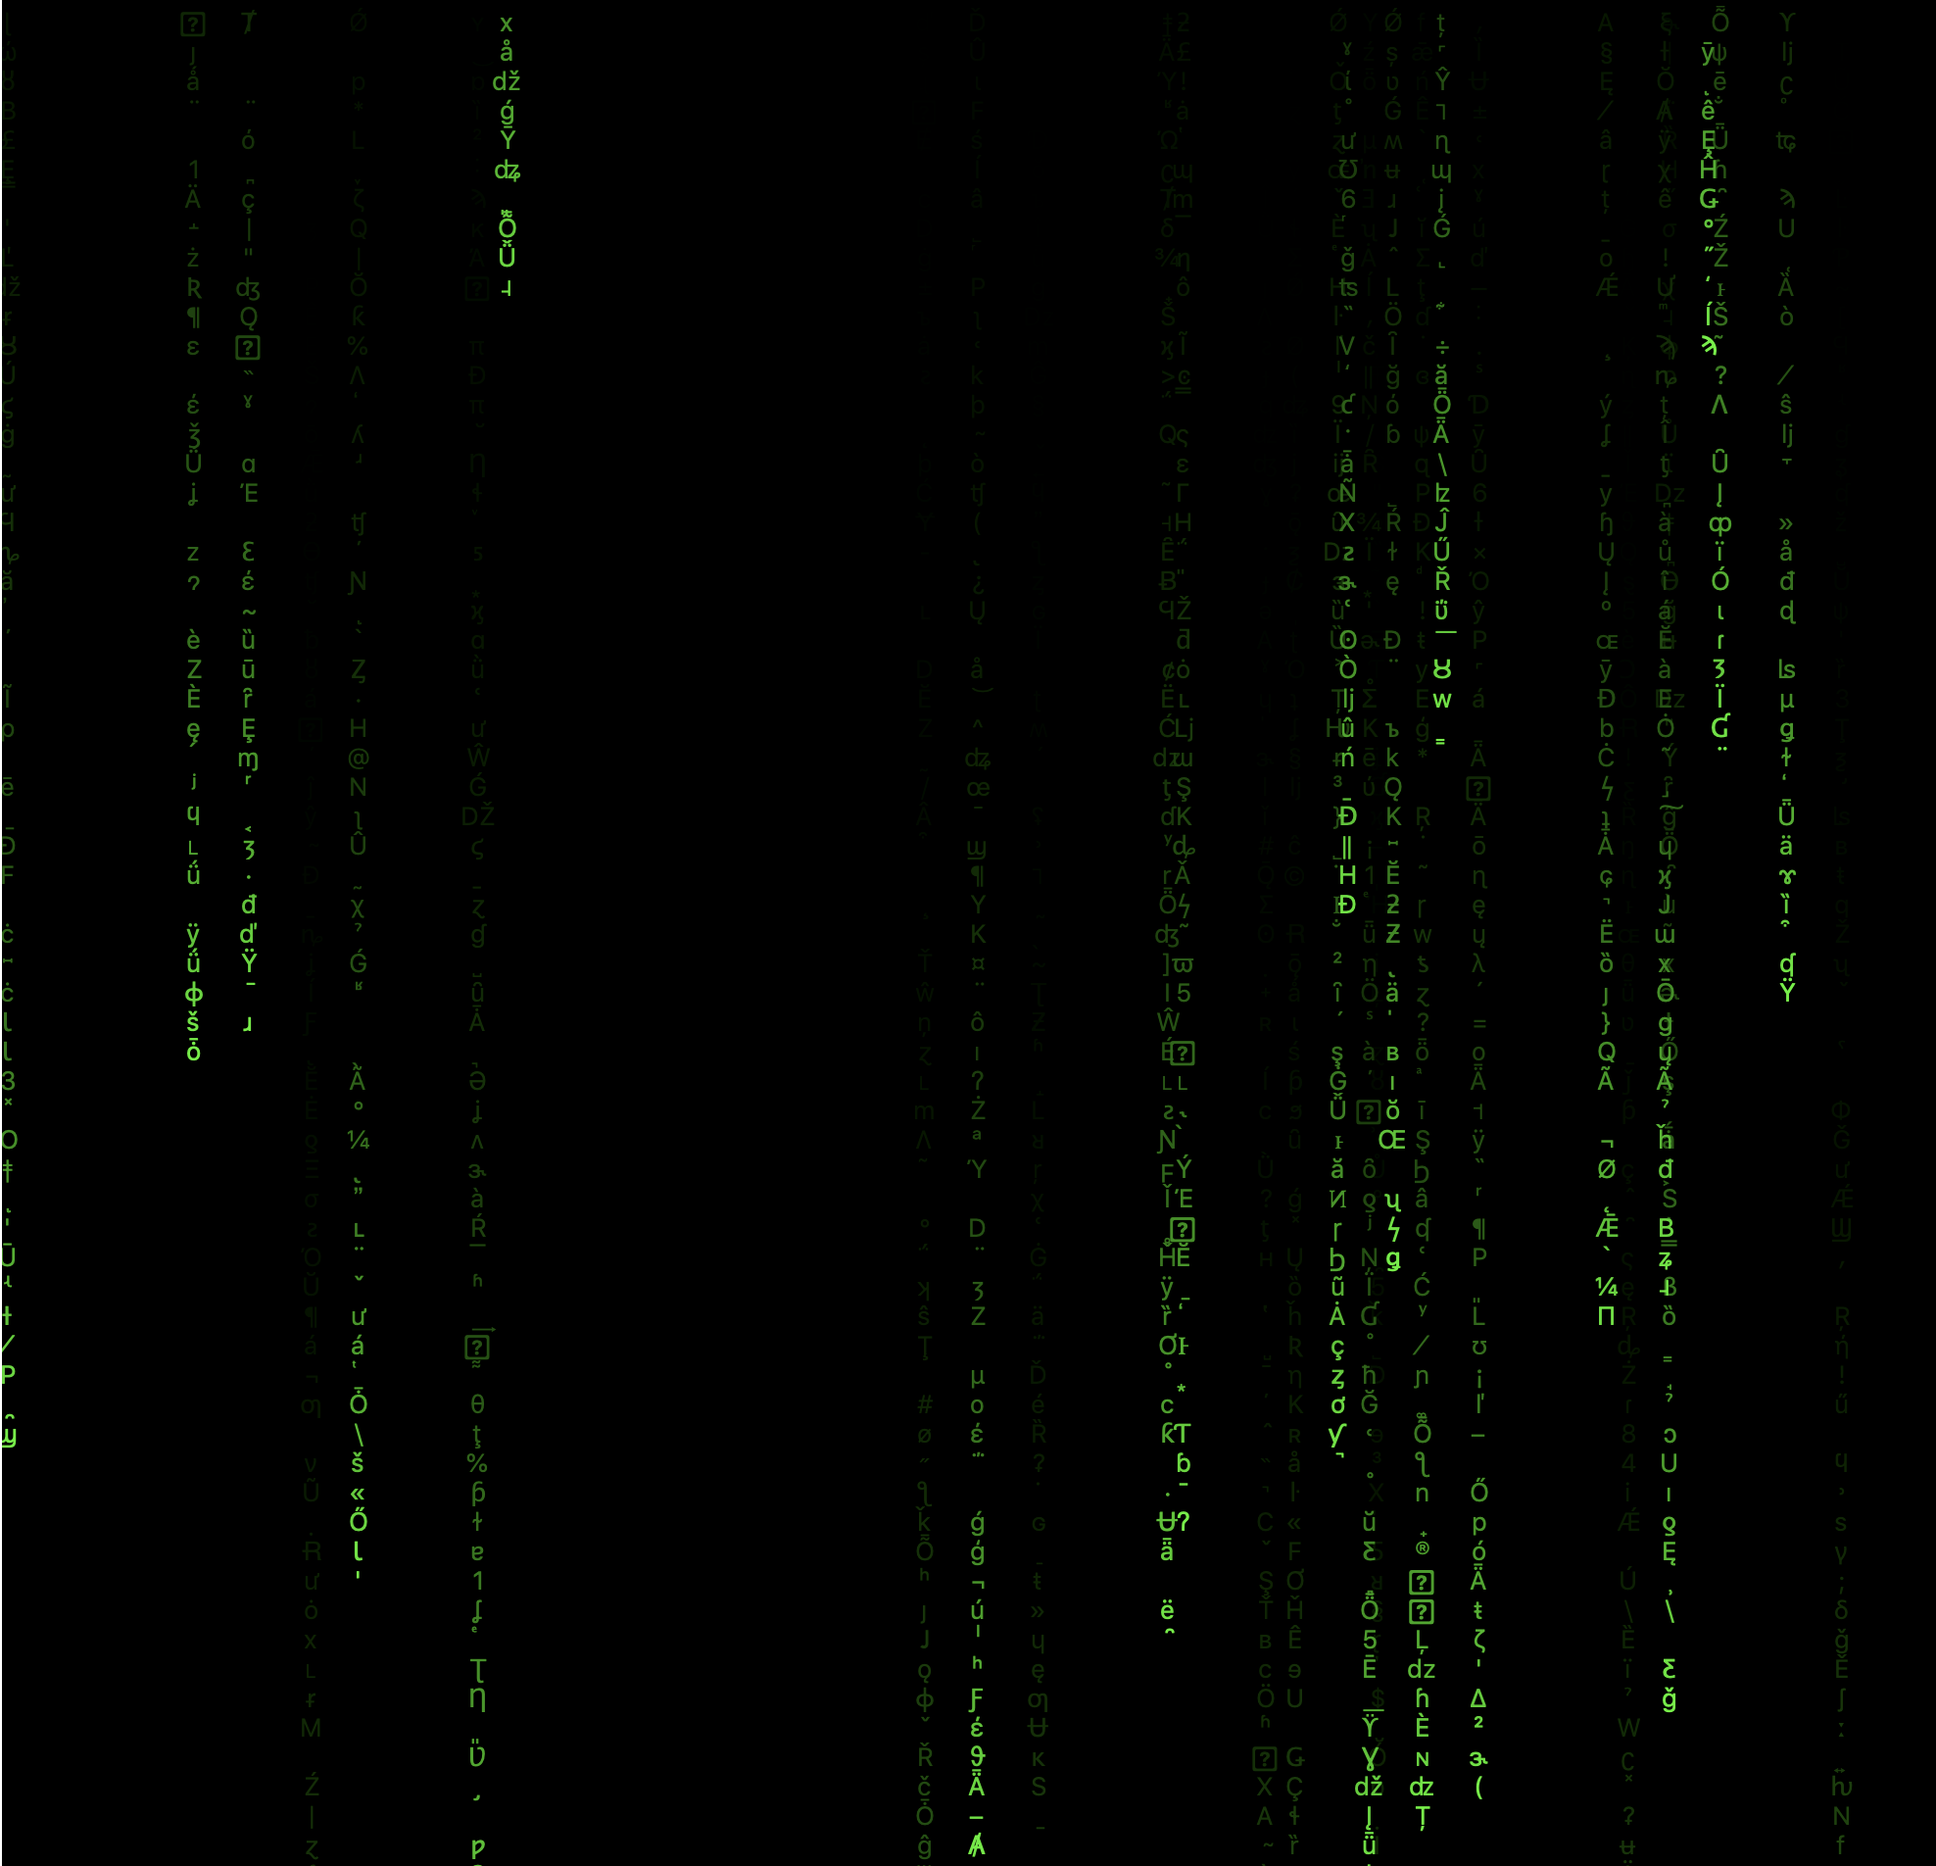
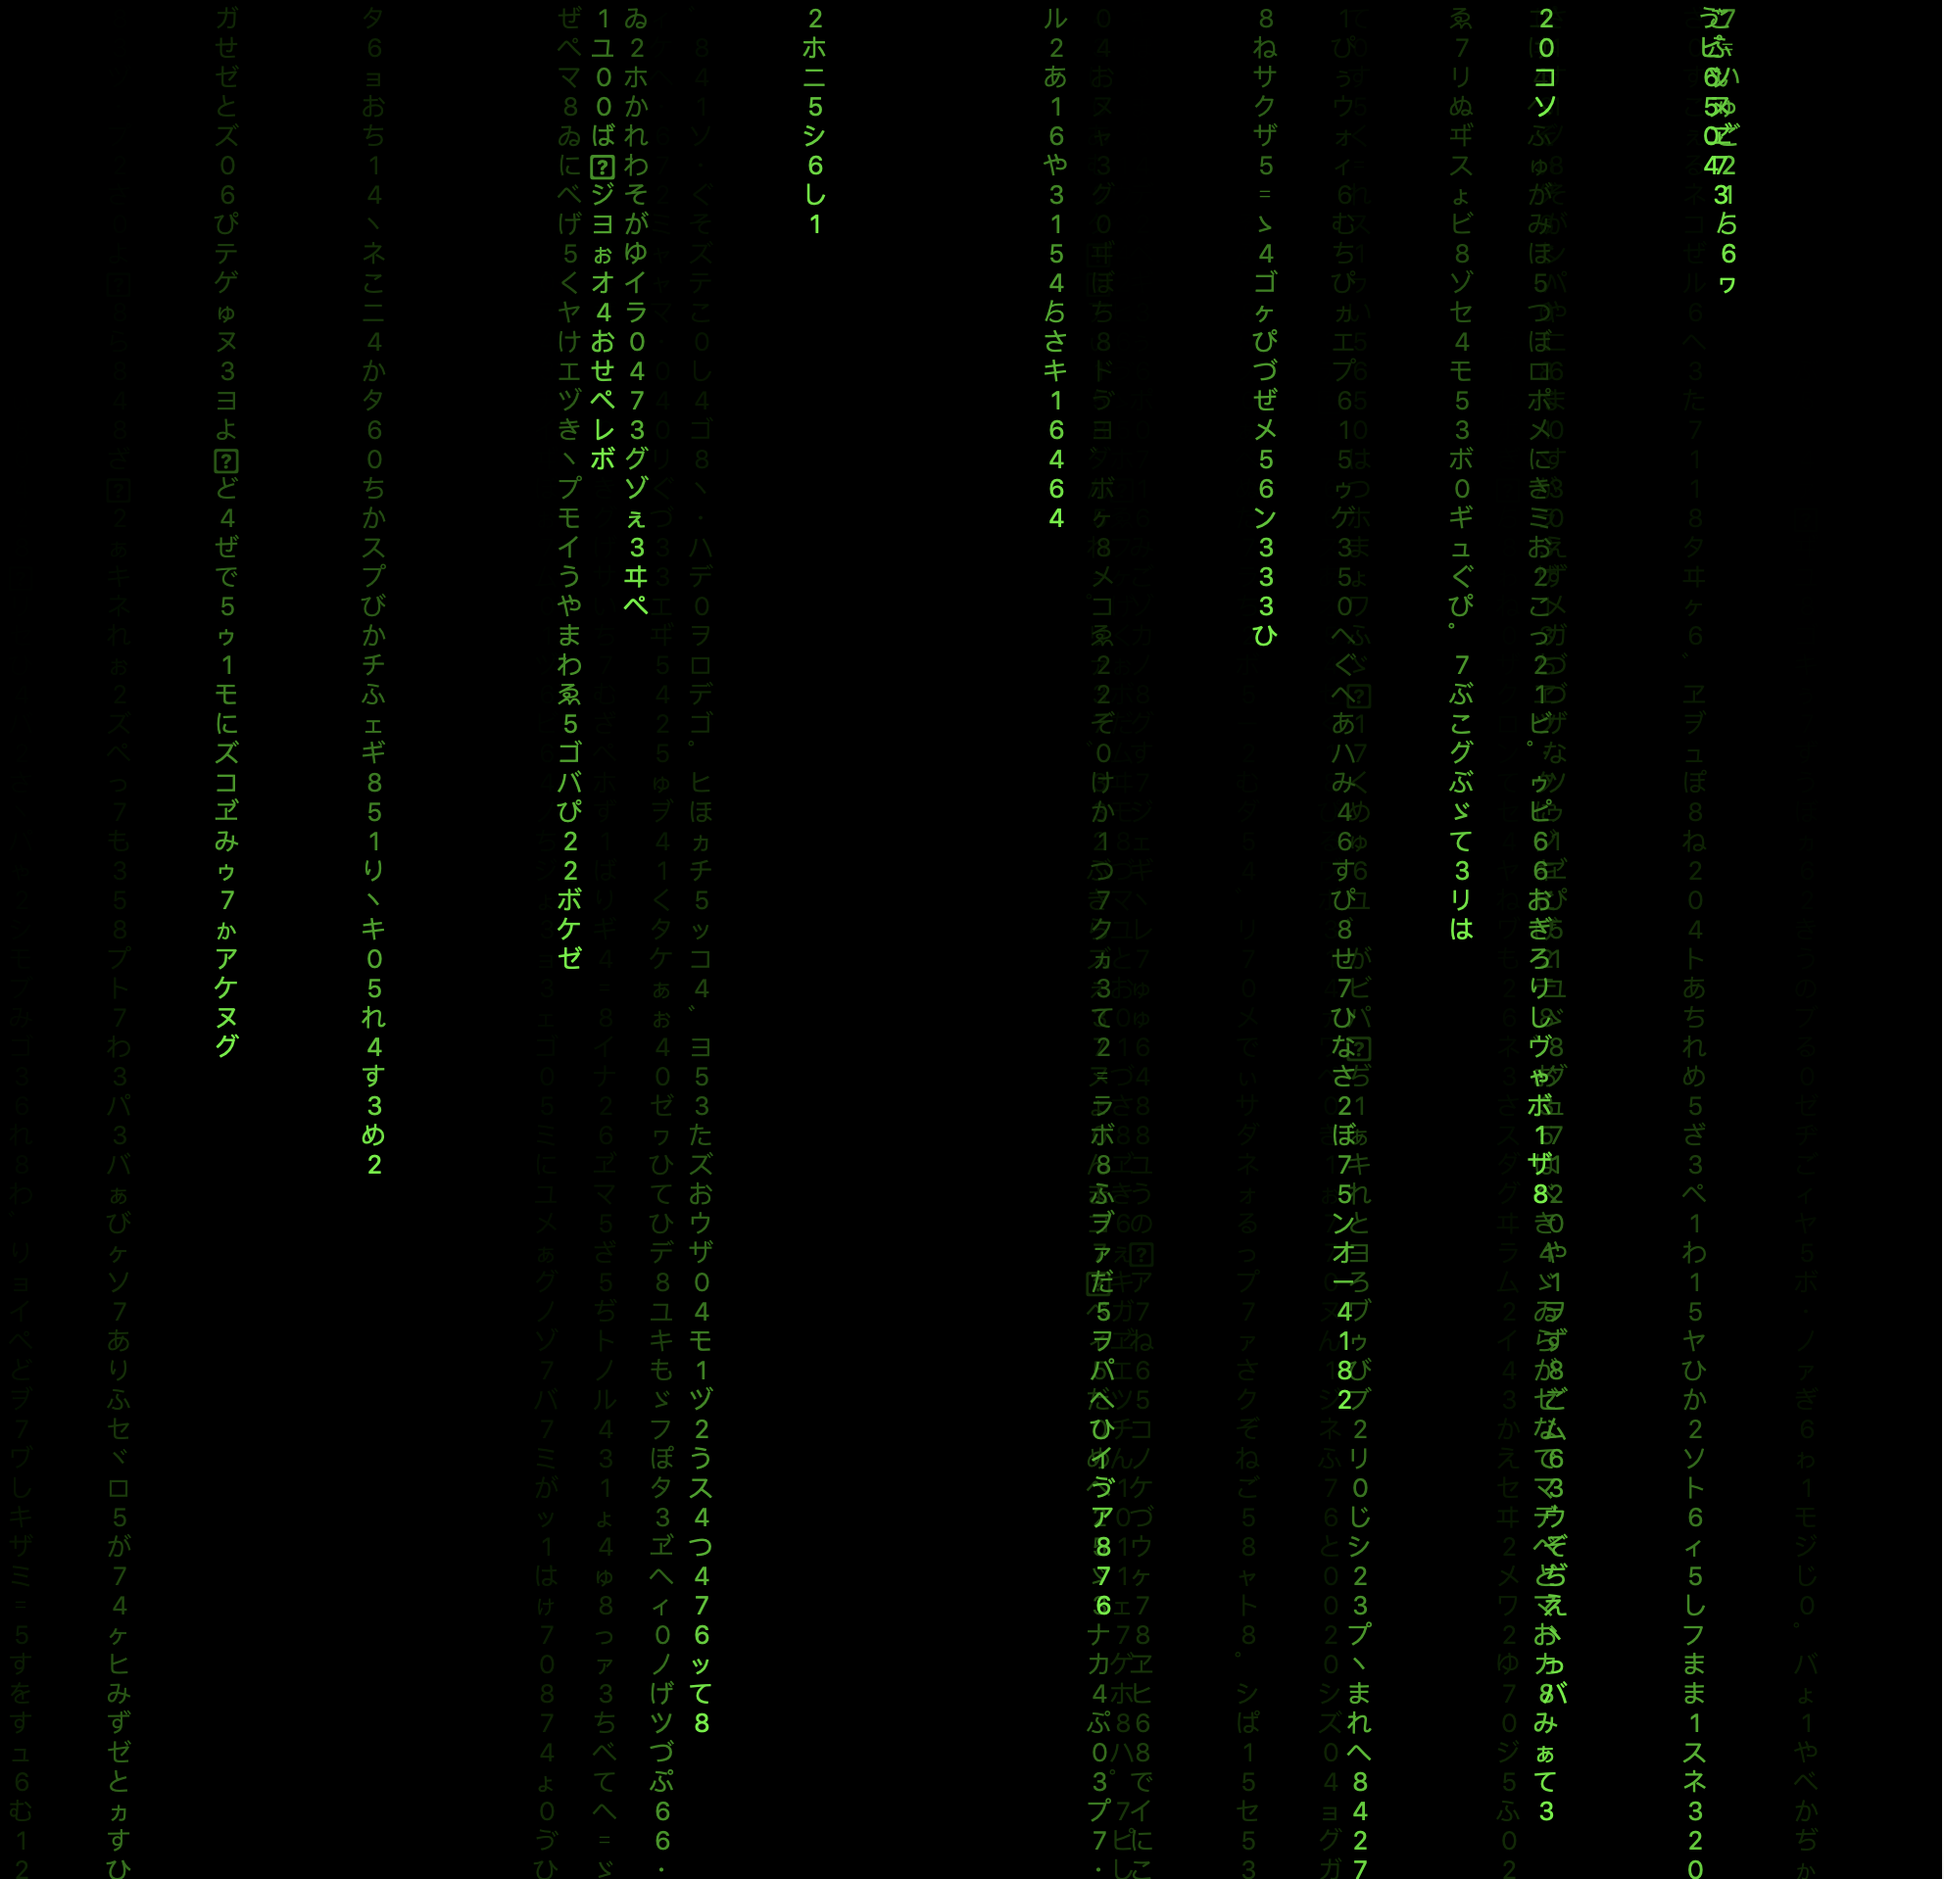
Use Japanese Characters To Be Realistic
Also updated picture.

diff --git a/matrixrain.py b/matrixrain.py
@@ -4,6 +4,7 @@ import random
 SIZE=10
 HEIGHTOFTEXT=15
 DIMRATE=0.95
+textstoshow=list(range(12352, 12543))+(list(range(48, 57))*10) #more numbers
 #maybe random?
 
 class rainstream:
@@ -19,7 +20,8 @@ class rainstream:
         self.lasty=0
     def rain(self):
         self.lasty=self.lasty+HEIGHTOFTEXT
-        self.text.append(chr(random.randint(1, 1000)))
+        #self.text.append(chr(random.randint(12352, 12543)))
+        self.text.append(chr(random.choice(textstoshow)))
         self.fills.append([int('39', 16), int('FF', 16), int('14', 16)])
         self.particles.append(canvas.create_text(self.startx, self.lasty, text=self.text[len(self.text)-1], fill='#39FF14'))
         for index, text in enumerate(self.particles):
